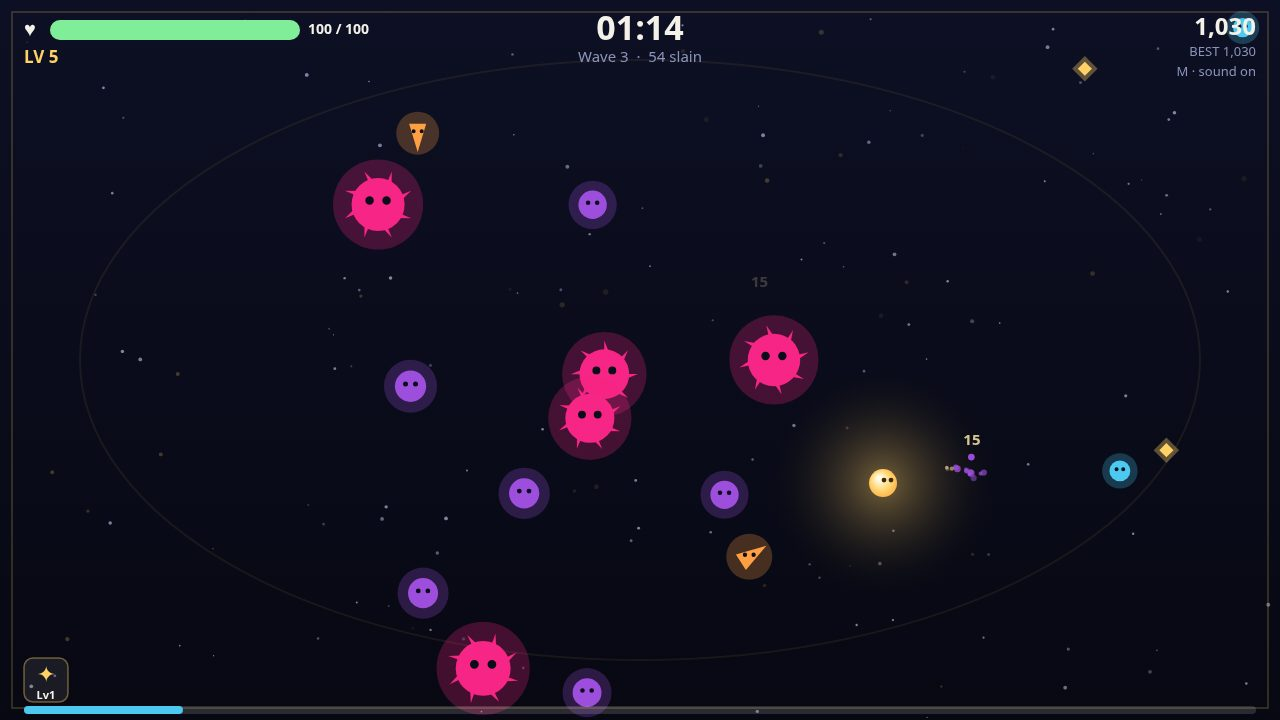
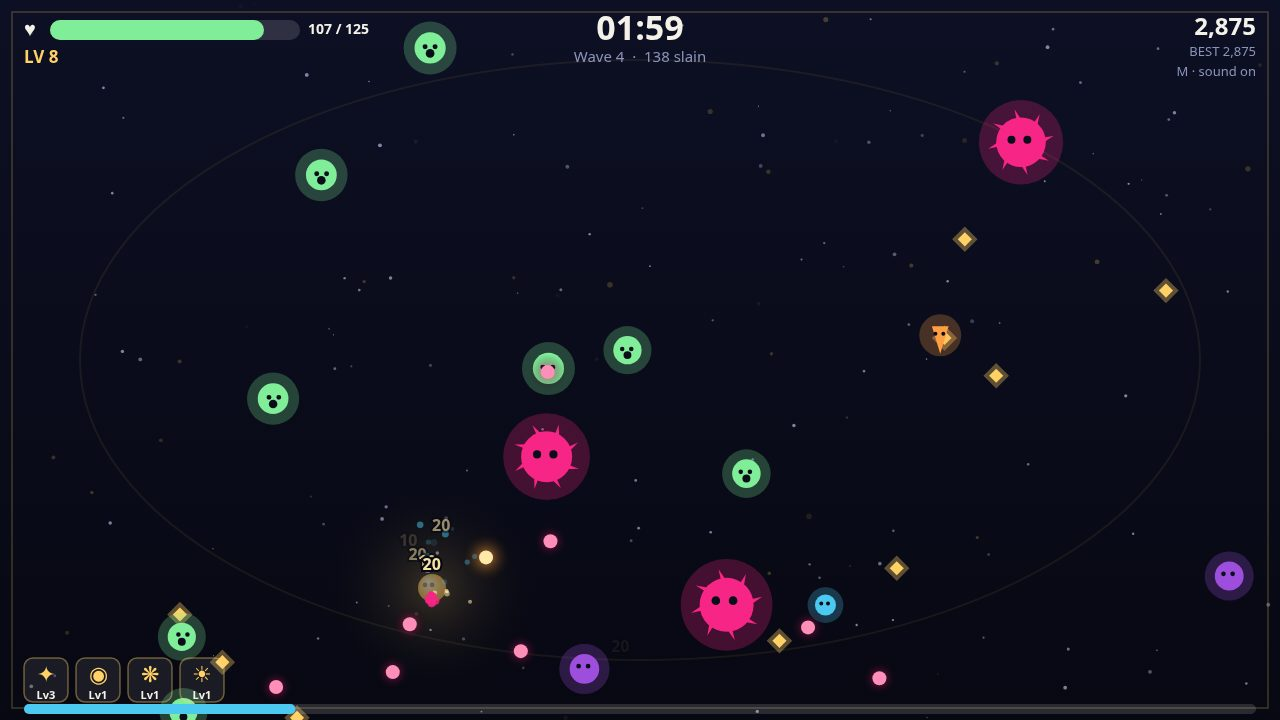
polish: fairer boss fights, readable damage numbers, richer screenshots
- Balance: roaming spawns ease off while a boss lives (the boss fight is
  the fight, not boss plus full crowd); enemy HP scales 1+t/480 not 1+t/360;
  elites 4x HP not 6x. A decent autopilot run now reaches the Hollow King
  and can win (seed 7: VICTORY at 333.8s, king fight 33.8s).
- Feel: damage numbers bigger with a dark outline, big hits read bigger,
  numbers stay clear of the HUD; enemy hit-flash 0.09s -> 0.12s; the
  player's glow pulses so it is easy to find in a crowd; enemy pupils
  actually track the player; XP bar thicker.
- Title: attract-mode shades gather low, never over the title text.
- Screenshots: play staged at 120s with a full arsenal (seed 8: healthy
  run, all 4 weapons); level-up stages the third offer (LEVEL 4); staged
  runs pick cards like a player (new weapons first, then upgrades).

diff --git a/game/src/shots.js b/game/src/shots.js
@@ -8,9 +8,9 @@ import { EVENT_LEVELUP, EVENT_OVER, EVENT_VICTORY, totalScore } from './world.js
 import { SCREEN_LEVELUP, SCREEN_OVER, SCREEN_PLAY, SCREEN_TITLE, SCREEN_VICTORY } from './render.js';
 
 const START_SECONDS = 5;
-const PLAY_SECONDS = 75;
-const PLAY_FALLBACK_SECONDS = 30;
-const LEVELUP_LIMIT_SECONDS = 120;
+const PLAY_SECONDS = 120;
+const PLAY_FALLBACK_SECONDS = 75;
+const LEVELUP_LIMIT_SECONDS = 180;
 const END_PLAY_SECONDS = 40;
 const END_LIMIT_SECONDS = 400;
 
@@ -63,12 +63,23 @@ function autopilot(state, skill) {
   return { x: x / len, y: y / len };
 }
 
-/** Play forward for `seconds`, auto-picking the first card on every level-up. */
+/** Pick like a player who wants a full arsenal: a new weapon first, then the
+ * strongest upgrade on offer, then whatever is left. The staged frames show
+ * a run that is actually going somewhere, not a first-card accident. */
+function pickCard(world) {
+  const cards = world.state.pendingCards;
+  if (!cards || cards.length === 0) return;
+  const fresh = cards.find((c) => c.kind === 'weapon' && c.fresh);
+  const upgrade = cards.filter((c) => c.kind === 'weapon' && !c.fresh).sort((a, b) => b.level - a.level)[0];
+  world.applyCard(fresh ?? upgrade ?? cards[0]);
+}
+
+/** Play forward for `seconds`, picking cards the way a player would. */
 function playFor(world, seconds, skill) {
   const steps = Math.floor(seconds / STEP);
   for (let i = 0; i < steps; i += 1) {
     const events = world.step(STEP, autopilot(world.state, skill), false);
-    if (world.state.pendingCards) world.applyCard(world.state.pendingCards[0]);
+    if (world.state.pendingCards) pickCard(world);
     if (events & (EVENT_OVER | EVENT_VICTORY)) break;
   }
 }
@@ -89,10 +100,17 @@ export function stageShot(name, world) {
   }
   if (name === 'levelup') {
     world.reset();
+    // Stage the third offer, not the first: by then the clearing is busy,
+    // the player has a build, and the cards mix new blessings with upgrades.
+    let offers = 0;
     const steps = Math.floor(LEVELUP_LIMIT_SECONDS / STEP);
     for (let i = 0; i < steps; i += 1) {
       const events = world.step(STEP, autopilot(world.state, PILOT_PLAY), false);
-      if (events & EVENT_LEVELUP) break;
+      if (events & EVENT_LEVELUP) {
+        offers += 1;
+        if (offers >= 3) break;
+        pickCard(world);
+      }
       if (events & (EVENT_OVER | EVENT_VICTORY)) break;
     }
     if (!world.state.pendingCards) {
@@ -125,7 +143,7 @@ export function stageShot(name, world) {
     const steps = Math.floor(END_LIMIT_SECONDS / STEP);
     for (let i = 0; i < steps; i += 1) {
       const events = world.step(STEP, { x: 0, y: 0 }, false);
-      if (world.state.pendingCards) world.applyCard(world.state.pendingCards[0]);
+      if (world.state.pendingCards) pickCard(world);
       if (events & (EVENT_OVER | EVENT_VICTORY)) break;
     }
     return {

diff --git a/game/src/render.js b/game/src/render.js
@@ -115,7 +115,7 @@ export function createRenderer(canvas) {
     }
   }
 
-  function drawEnemy(e, now) {
+  function drawEnemy(e, now, player) {
     const wob = Math.sin(now * 4 + e.wobble) * 0.06;
     const r = e.radius * (1 + wob);
     ctx.globalAlpha = 0.25;
@@ -148,13 +148,16 @@ export function createRenderer(canvas) {
         ctx.fill();
       }
     }
-    // Eyes, always watching the player.
+    // Eyes, always watching the player: the pupils lean toward the light.
     const ex = e.x;
     const ey = e.y - r * 0.15;
+    const look = player ? Math.atan2(player.y - e.y, player.x - e.x) : 0;
+    const lx = Math.cos(look) * r * 0.08;
+    const ly = Math.sin(look) * r * 0.08;
     ctx.fillStyle = '#0b0e1a';
     ctx.beginPath();
-    ctx.arc(ex - r * 0.32, ey, Math.max(2, r * 0.16), 0, Math.PI * 2);
-    ctx.arc(ex + r * 0.32, ey, Math.max(2, r * 0.16), 0, Math.PI * 2);
+    ctx.arc(ex - r * 0.32 + lx, ey + ly, Math.max(2, r * 0.16), 0, Math.PI * 2);
+    ctx.arc(ex + r * 0.32 + lx, ey + ly, Math.max(2, r * 0.16), 0, Math.PI * 2);
     ctx.fill();
     if (e.behaviour === 'spitter') {
       ctx.fillStyle = '#0b0e1a';
@@ -200,7 +203,9 @@ export function createRenderer(canvas) {
   function drawPlayer(state, now) {
     const p = state.player;
     const blink = p.invuln > 0 && Math.floor(now * 18) % 2 === 0;
-    drawGlow(p.x, p.y, 120, 'rgba(255, 209, 102, 0.55)', blink ? 0.35 : 0.8);
+    // The light breathes: a slow pulse so the player is easy to find in a crowd.
+    const pulse = 120 + Math.sin(now * 3) * 10;
+    drawGlow(p.x, p.y, pulse, 'rgba(255, 209, 102, 0.55)', blink ? 0.35 : 0.8);
     // Orbit sparks.
     if (state.weapons.orbit) {
       const def = WEAPONS.orbit.levels[state.weapons.orbit - 1];
@@ -263,7 +268,7 @@ export function createRenderer(canvas) {
   function drawWorld(state, particles, now) {
     drawBackground(now);
     drawGems(state);
-    for (const e of state.enemies) drawEnemy(e, now);
+    for (const e of state.enemies) drawEnemy(e, now, state.player);
     drawPlayer(state, now);
     drawShots(state);
     particles.draw(ctx);
@@ -365,7 +370,7 @@ export function createRenderer(canvas) {
       wx += 52;
     }
     // XP bar, bottom.
-    bar(24, VIEW.height - 14, VIEW.width - 48, 8, p.xp / p.xpNext, PALETTE.cyan);
+    bar(24, VIEW.height - 16, VIEW.width - 48, 10, p.xp / p.xpNext, PALETTE.cyan);
     // Boss banner.
     if (state.banner) {
       const a = Math.min(1, state.banner.timer / 0.6, (2.8 - state.banner.timer) / 0.3 + 1);

diff --git a/game/src/world.js b/game/src/world.js
@@ -94,11 +94,10 @@ export function createWorld(rng) {
     return { x: VIEW.width - m, y: rng.range(m, VIEW.height - m) };
   }
 
-  function spawnWave() {
-    const pace = spawnPace(state.time);
+  function spawnWave(batch) {
     const types = unlockedTypes(state.time);
     const totalWeight = types.reduce((sum, t) => sum + t.weight, 0);
-    for (let i = 0; i < pace.batch; i += 1) {
+    for (let i = 0; i < batch; i += 1) {
       if (state.enemies.length >= MAX_ENEMIES) return;
       let roll = rng.next() * totalWeight;
       let id = types[0].id;
@@ -142,7 +141,7 @@ export function createWorld(rng) {
 
   function damageEnemy(enemy, amount, kx, ky) {
     enemy.hp -= amount;
-    enemy.flash = 0.09;
+    enemy.flash = 0.12;
     state.damageDealt += amount;
     const resist = enemy.behaviour === 'brute' || enemy.boss ? 0.15 : 1;
     enemy.knockX += kx * resist;
@@ -367,7 +366,15 @@ export function createWorld(rng) {
       state.spawnTimer -= dt;
       if (state.spawnTimer <= 0 && state.enemies.length < 9) {
         state.spawnTimer = 1.6;
-        const pt = spawnPoint();
+        // Title shades gather low, around the waiting light — never over
+        // the title text or the how-to panel above it.
+        const m = ARENA.margin;
+        const edge = rng.int(0, 2);
+        const pt = edge === 0
+          ? { x: rng.range(m, VIEW.width - m), y: VIEW.height - m }
+          : edge === 1
+            ? { x: m, y: rng.range(360, VIEW.height - m) }
+            : { x: VIEW.width - m, y: rng.range(360, VIEW.height - m) };
         state.enemies.push(spawnEnemy(rng, rng.pick(['shade', 'wisp', 'shade']), pt.x, pt.y, 30));
       }
       for (const enemy of state.enemies) {
@@ -410,11 +417,14 @@ export function createWorld(rng) {
       events |= EVENT_BOSS;
     }
 
-    // Roaming spawns.
+    // Roaming spawns. While a boss lives, the Hollow holds its lesser shades
+    // back — the boss fight is the fight, not the boss plus a full crowd.
     state.spawnTimer -= dt;
     if (state.spawnTimer <= 0) {
-      spawnWave();
-      state.spawnTimer = spawnPace(state.time).interval;
+      const pace = spawnPace(state.time);
+      const bossUp = state.boss && !state.boss.dead;
+      spawnWave(bossUp ? Math.max(1, pace.batch - 1) : pace.batch);
+      state.spawnTimer = bossUp ? pace.interval * 1.7 : pace.interval;
     }
 
     fireWeapons(dt);

diff --git a/game/src/particles.js b/game/src/particles.js
@@ -1,7 +1,7 @@
 // Juice: sparks, rings and floating numbers. Particles are a capped pool of plain
 // objects — no allocation churn mid-fight — each with a velocity, a life and a fade.
 // Floating texts rise and fade; rings expand and thin out.
-import { MAX_PARTICLES } from './config.js';
+import { MAX_PARTICLES, VIEW } from './config.js';
 
 export function createParticles() {
   const parts = [];
@@ -30,7 +30,10 @@ export function createParticles() {
     },
     text(x, y, value, color) {
       if (texts.length > 40) texts.shift();
-      texts.push({ x, y, value, color, life: 0.8, maxLife: 0.8 });
+      // Keep numbers inside the play area and clear of the HUD strip.
+      const cx = Math.min(VIEW.width - 30, Math.max(30, x));
+      const cy = Math.max(96, y);
+      texts.push({ x: cx, y: cy, value, color, life: 0.8, maxLife: 0.8, big: Number(value) >= 25 });
     },
     update(dt) {
       for (let i = parts.length - 1; i >= 0; i -= 1) {
@@ -78,7 +81,12 @@ export function createParticles() {
       ctx.textAlign = 'center';
       for (const t of texts) {
         ctx.globalAlpha = Math.max(0, t.life / t.maxLife);
-        ctx.font = 'bold 15px system-ui, sans-serif';
+        // Big hits read bigger; every number gets a dark outline so it
+        // stays readable over the dark arena and the bright bursts.
+        ctx.font = t.big ? 'bold 20px system-ui, sans-serif' : 'bold 16px system-ui, sans-serif';
+        ctx.lineWidth = 4;
+        ctx.strokeStyle = 'rgba(5, 6, 16, 0.85)';
+        ctx.strokeText(t.value, t.x, t.y);
         ctx.fillStyle = t.color;
         ctx.fillText(t.value, t.x, t.y);
       }

diff --git a/game/src/enemies.js b/game/src/enemies.js
@@ -53,11 +53,14 @@ export function unlockedTypes(time) {
 export function spawnEnemy(rng, id, x, y, time) {
   const def = ENEMY_TYPES[id];
   const elite = time >= ELITE_AT && rng.chance(ELITE_CHANCE);
-  const hpMul = 1 + time / 360;
+  // Enemy bulk grows with the night, but slower than the player's damage does,
+  // so a run that keeps levelling keeps up. Elites are tough (4x) but not
+  // boss-tough — a wall the player cannot focus-fire through is no fun.
+  const hpMul = 1 + time / 480;
   return {
     id, x, y,
-    hp: def.hp * hpMul * (elite ? 6 : 1),
-    maxHp: def.hp * hpMul * (elite ? 6 : 1),
+    hp: def.hp * hpMul * (elite ? 4 : 1),
+    maxHp: def.hp * hpMul * (elite ? 4 : 1),
     speed: def.speed * (1 + Math.min(time / 600, 0.35)) * (elite ? 0.9 : 1),
     damage: def.damage * (elite ? 1.6 : 1),
     radius: def.radius * (elite ? 1.5 : 1),
